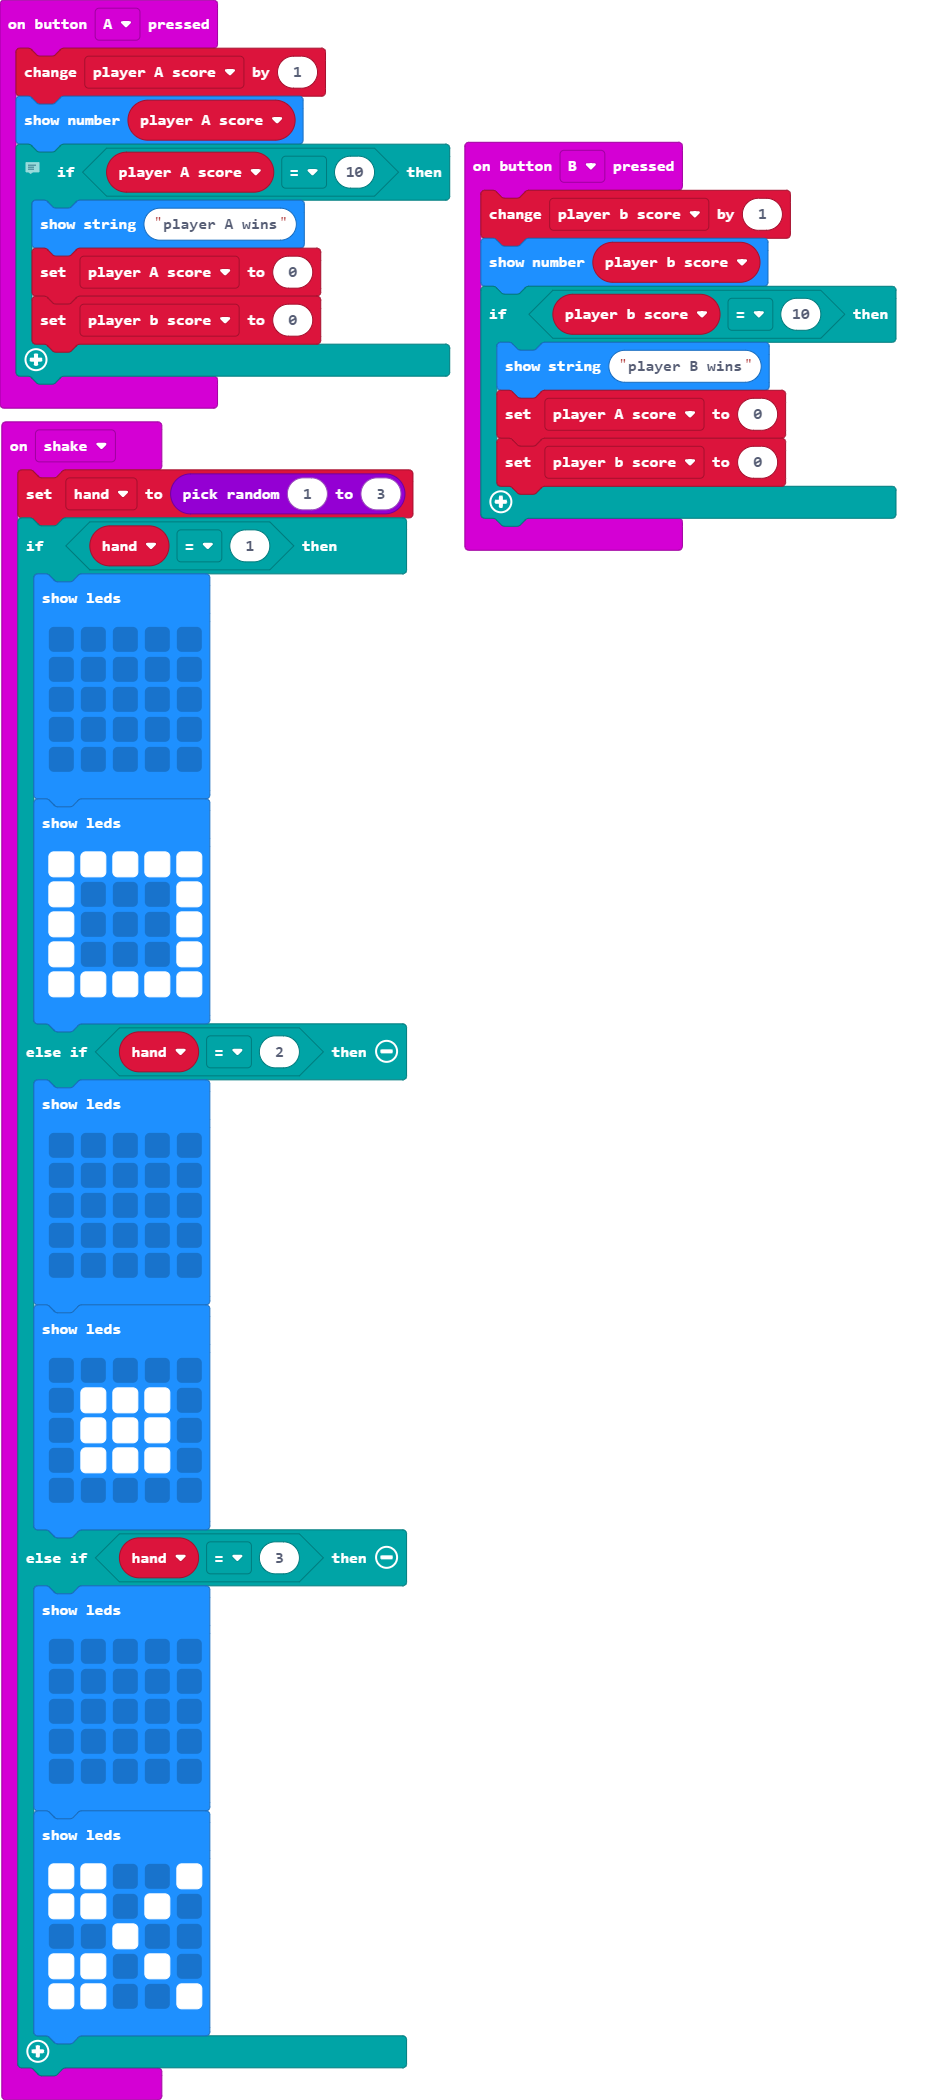
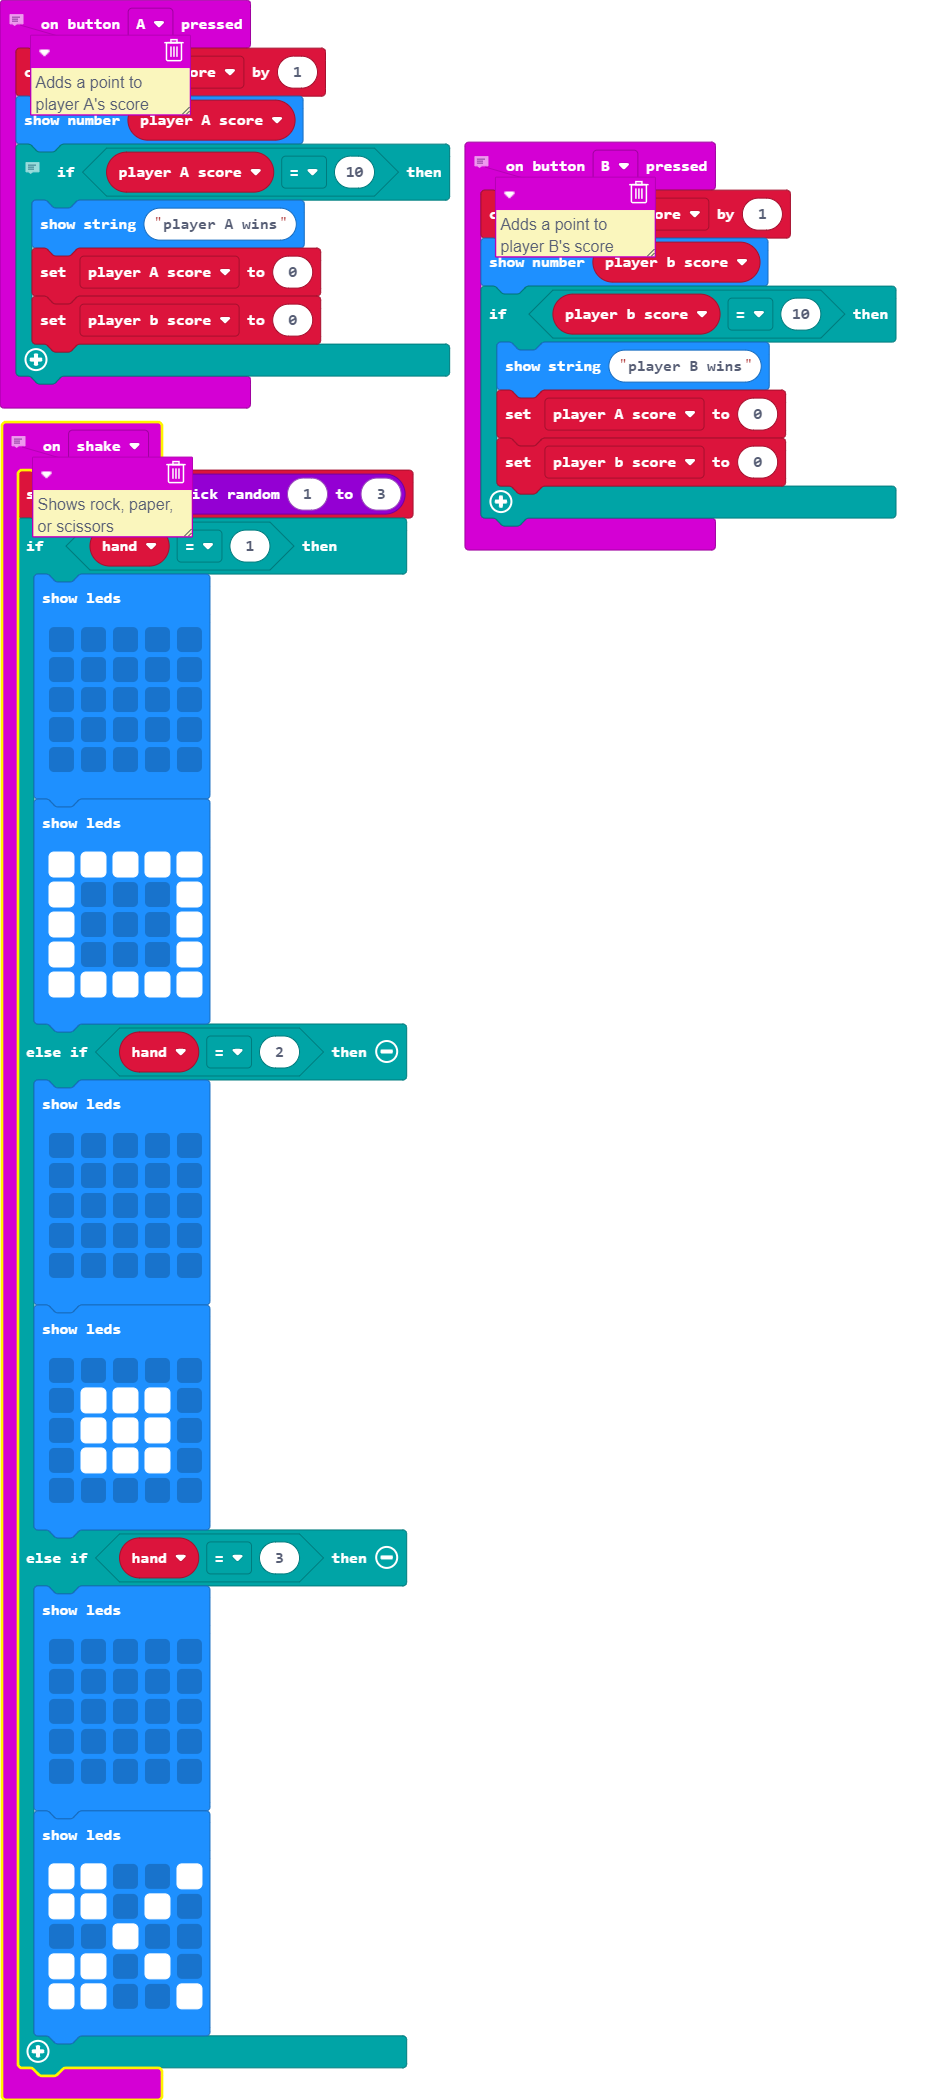
Update main.blocks, main.ts

diff --git a/main.ts b/main.ts
@@ -1,6 +1,7 @@
 let player_A_score = 0
 let player_b_score = 0
 let hand = 0
+// Adds a point to player A's score 
 input.onButtonPressed(Button.A, function () {
     player_A_score += 1
     basic.showNumber(player_A_score)
@@ -11,6 +12,7 @@ input.onButtonPressed(Button.A, function () {
         player_b_score = 0
     }
 })
+// Adds a point to player B's score
 input.onButtonPressed(Button.B, function () {
     player_b_score += 1
     basic.showNumber(player_b_score)
@@ -20,6 +22,7 @@ input.onButtonPressed(Button.B, function () {
         player_b_score = 0
     }
 })
+// Shows rock, paper, or scissors
 input.onGesture(Gesture.Shake, function () {
     hand = randint(1, 3)
     if (hand == 1) {
